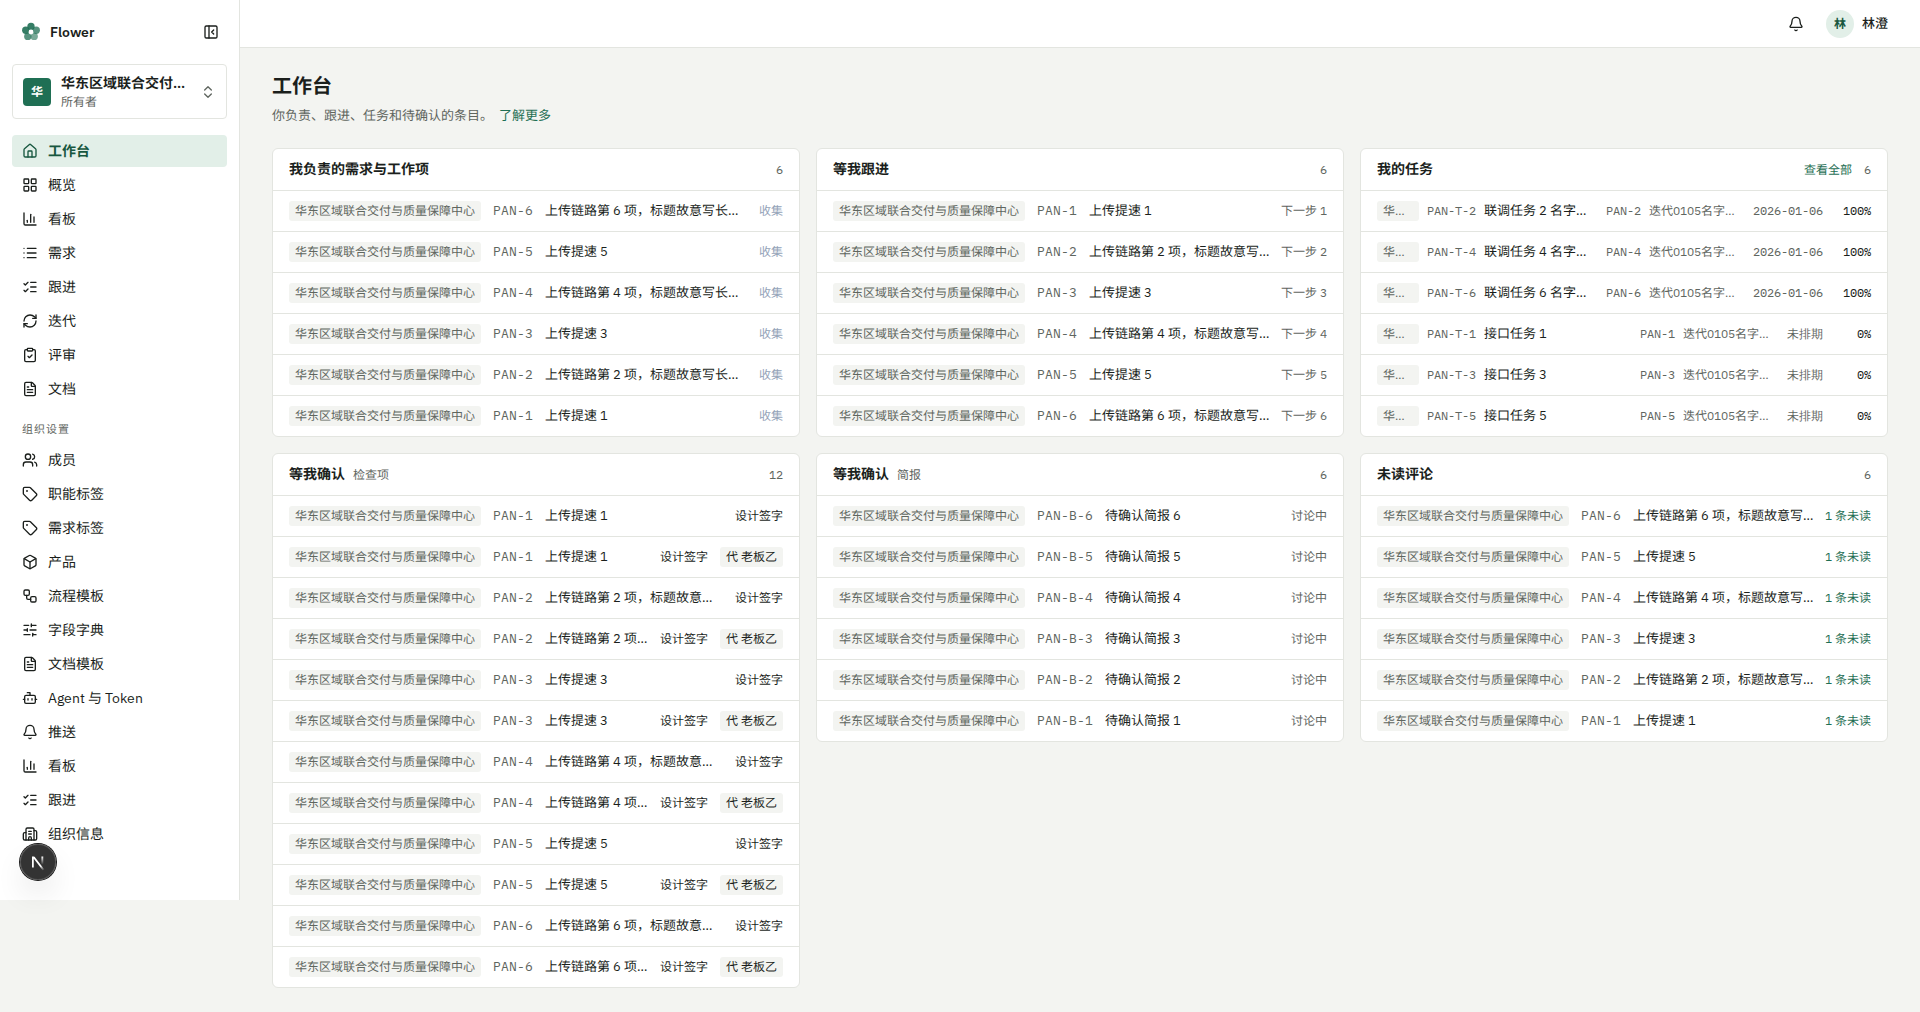
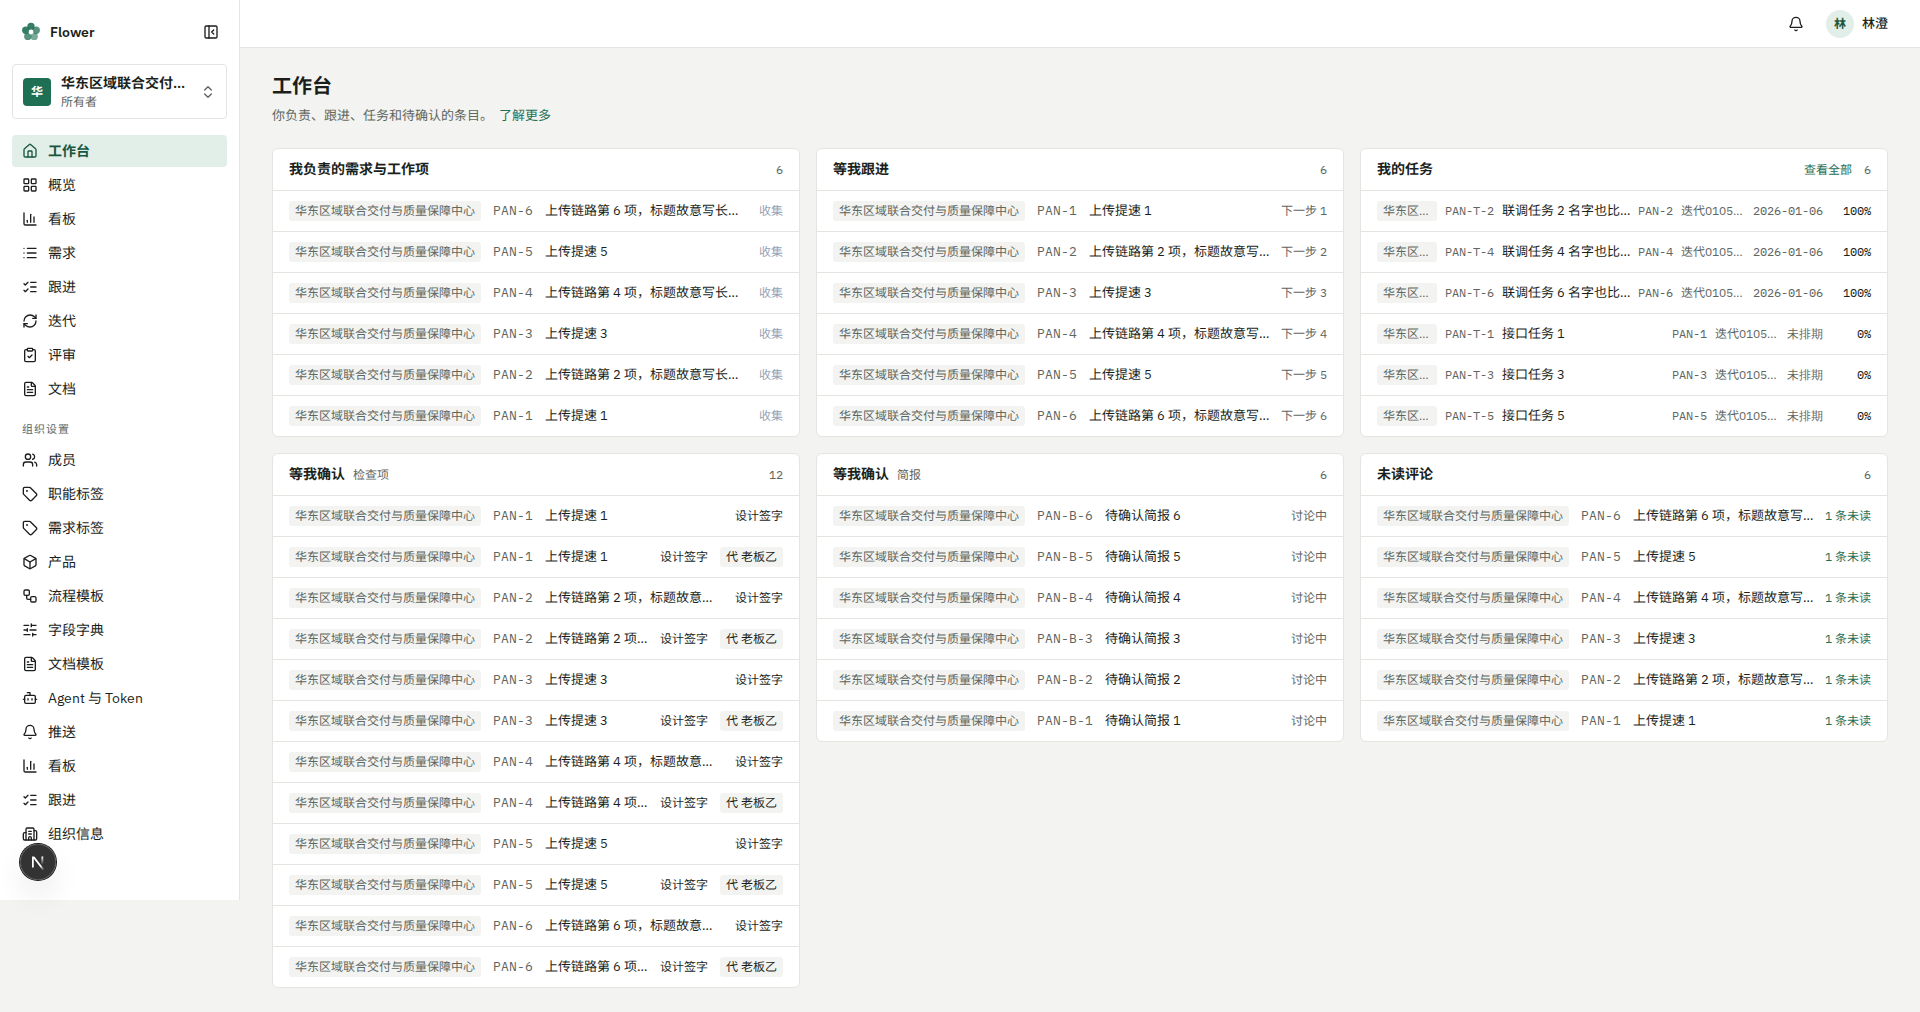
fix(web): cap task iteration at 3xl and count past the ellipsis
3xl iteration names stop at 64px and keep the full name in title.
Long org badges stop at 5em. The task row stays on gap-2 because
max-w-16 alone still left the 1920 multi-org title at 7 letters.
Visible letters subtract the ellipsis when the row overflows, and
a glyph counts only when it ends before that edge. 1919 stays two
columns; 1920 is three. The 120rem breakpoint is unchanged.

diff --git a/apps/web/e2e/dux-e-workbench-density.spec.ts b/apps/web/e2e/dux-e-workbench-density.spec.ts
@@ -31,7 +31,8 @@ type Bot = { post: (url: string, opts: { data: unknown }) => Promise<APIResponse
 
 /**
  * 可见宽是元素边框盒与卡片可视区、裁切父级的交集。
- * 标题字数不含空格；省略号盖住的字形、以及大半落在裁切区外的字形都不算。
+ * 标题字数不含空格。行或标题溢出时，右边界先减去省略号宽度，
+ * 字形必须完全落在这条边界左边，被省略号盖住的不算。
  * 可见宽不能靠标题自己的 min-w 单独过关。
  */
 async function taskRowMetrics(region: Locator): Promise<TaskRowMetric[]> {
@@ -70,8 +71,11 @@ async function taskRowMetrics(region: Locator): Promise<TaskRowMetric[]> {
     const lettersOf = (value: string) => Array.from(value).filter(isLetter).join('');
     const visibleLetters = (el: Element, left: number, right: number) => {
       const style = getComputedStyle(el);
+      const row = el.closest('a');
+      const rowOverflow = !!row && row.scrollWidth > row.clientWidth + 0.5;
+      const selfOverflow = el.scrollWidth > el.clientWidth + 0.5;
       let limit = right;
-      if (style.textOverflow.includes('ellipsis') && el.scrollWidth > el.clientWidth + 0.5) {
+      if ((rowOverflow || selfOverflow) && style.textOverflow.includes('ellipsis')) {
         const canvas = document.createElement('canvas').getContext('2d');
         if (canvas) {
           canvas.font = style.font;
@@ -88,17 +92,14 @@ async function taskRowMetrics(region: Locator): Promise<TaskRowMetric[]> {
         const value = text.textContent ?? '';
         for (let i = 0; i < value.length; i++) {
           const ch = value[i] ?? '';
-          if (!isLetter(ch)) continue;
           range.setStart(text, i);
           range.setEnd(text, i + 1);
+          let visible = false;
           for (const glyph of range.getClientRects()) {
             if (glyph.width <= 0 || glyph.height <= 0) continue;
-            const overlap = Math.min(glyph.right, limit) - Math.max(glyph.left, left);
-            if (overlap >= glyph.width / 2) {
-              shown += ch;
-              break;
-            }
+            if (glyph.right <= limit + 0.5 && glyph.left >= left - 0.5) visible = true;
           }
+          if (visible) shown += ch;
         }
       }
       return shown;
@@ -116,9 +117,10 @@ async function taskRowMetrics(region: Locator): Promise<TaskRowMetric[]> {
       const progressBox = visibleSpan(progress);
       const titleText = title.textContent ?? '';
       const titleShown = visibleLetters(title, titleBox.left, titleBox.right);
+      const titleLettersShown = lettersOf(titleShown);
       return {
         title: titleText,
-        titleChars: Array.from(titleShown).length,
+        titleChars: Array.from(titleLettersShown).length,
         titleLetters: lettersOf(titleText).length,
         titleShown,
         titleWidth: titleBox.width,

diff --git a/apps/web/src/app/(app)/[org]/page.tsx b/apps/web/src/app/(app)/[org]/page.tsx
@@ -12,7 +12,7 @@ import { useWorkbench } from '@/lib/queries';
 import type { Workbench } from '@/lib/types';
 
 const ROW = 'flex h-10 min-w-0 items-center gap-3 overflow-hidden px-4 text-[13px] hover:bg-muted';
-/** 任务行字段比别的区块多。间距收一档，避免 1280 两列和 1920 三列把长标题挤到 8 字以下。 */
+/** 只缩这一行。三列时迭代名收到 64px；长组织名的徽标收到 5em。间距收一档，标题才够 8 个非空格字。 */
 const TASK_ROW = 'flex h-10 min-w-0 items-center gap-2 overflow-hidden px-4 text-[13px] hover:bg-muted';
 const WORKBENCH_ABOUT = '汇总你在所有组织里负责的需求与工作项、等你跟进的条目、指派给你的任务、等你确认的简报、等你确认的检查项和未读评论。';
 
@@ -79,7 +79,6 @@ function Section({
   );
 }
 
-/** 三列时徽标收到 3.5em。4em 时标题只剩 108px，第 8 个字的中线还差约 0.5px，被省略号挡住。 */
 function OrgBadge({ show, name, compactAt3xl = false }: { show: boolean; name: string; compactAt3xl?: boolean }) {
   if (!show) return null;
   return (
@@ -87,7 +86,7 @@ function OrgBadge({ show, name, compactAt3xl = false }: { show: boolean; name: s
       title={compactAt3xl ? name : undefined}
       className={
         compactAt3xl
-          ? 'shrink-0 rounded-sm bg-muted px-1.5 py-0.5 text-xs text-muted-foreground 3xl:min-w-0 3xl:max-w-[3.5em] 3xl:shrink 3xl:truncate'
+          ? 'shrink-0 rounded-sm bg-muted px-1.5 py-0.5 text-xs text-muted-foreground 3xl:min-w-0 3xl:max-w-[5em] 3xl:shrink 3xl:truncate'
           : 'shrink-0 rounded-sm bg-muted px-1.5 py-0.5 text-xs text-muted-foreground'
       }
     >
@@ -182,7 +181,7 @@ function Sections({ org, data }: { org: string; data: Workbench }) {
               <span className="min-w-[64px] flex-1 truncate">{t.title}</span>
               {t.requirement && <span className="shrink-0 font-mono text-xs text-muted-foreground">{t.requirement.displayKey}</span>}
               {t.iteration && (
-                <span title={t.iteration.name} className="min-w-0 max-w-24 truncate text-xs text-muted-foreground">
+                <span title={t.iteration.name} className="min-w-0 max-w-24 truncate text-xs text-muted-foreground 3xl:max-w-16">
                   {t.iteration.name}
                 </span>
               )}

diff --git a/docs/agent-log.md b/docs/agent-log.md
@@ -20,6 +20,12 @@
 
 ## 记录
 
+### 2026-10-23 · 云端 · FIX-5 修订：迭代名三列限宽，字数扣掉省略号
+- 分支 / PR：`fix/dux-e-workbench-3col-readable`（草稿 #40，不要 merge，不要标 ready）
+- 做了什么：已处理同日 FIX-5 修订。三列门槛仍是 `3xl`（`120rem`），没有改。只动「我的任务」行：迭代名加 `3xl:max-w-16`（64px），`title` 仍是全名。只加这一条时，多组织 1920 的长标题是「联调任务 2 名字」，7 个非空格字、104px，还不到 8。于是任务行保持 `gap-2`，三列时组织徽标再限到 `5em` 并截断，`title` 为全名。编号、迭代、计划日都还在，其他区块的行没改。可见字：行或标题溢出时，右边界先减去省略号宽度，字形必须完全落在这条边界左边。空格不算。`layout.spec` 增加 1919 两列、1920 三列。1920 的两张满负荷图重截。不碰生产。
+- 怎么验证的：`pnpm --filter @flower/web lint` 0 警告。`pnpm typecheck` 通过。Playwright 24 条通过，含 1919 两列 / 1920 三列。扣掉省略号之后的非空格字：单组织 1280 长标题「联调任务 2 名字也」8 字 / 116px，1440 全文 11 字 / 196px，1536 全文 11 字 / 244px，1920 全文 11 字 / 196px。多组织短名 1536 全文 11 字 / 176px；1920「联调任务 2 名字也比」9 字 / 128px。多组织长名 1920 同样 9 字 / 128px。短标题「接口任务 N」全文 5 字都在。迭代在 1920 为 64px，计划日和进度完整。
+- 留给对方：不要 merge，不要标 ready。合仓不等于部署，不碰生产。同日上一条 FIX-5 里「徽标 3.5em、1920 多组织 8 字 / 114px」已被这条取代。回滚：任务行改回共用 `ROW`，迭代名去掉 `3xl:max-w-16`，徽标去掉 `compactAt3xl`。
+
 ### 2026-10-23 · 云端 · 三列多组织时任务标题仍不少于 8 个字（FIX-5）
 - 分支 / PR：`fix/dux-e-workbench-3col-readable`（草稿 #40，不要 merge，不要标 ready）
 - 做了什么：已处理同日 FIX-5。只改工作台「我的任务」行。任务行间距从 `gap-3` 收到 `gap-2`，其他区块仍用原来的 `ROW`。3xl 时这一行的组织徽标 `max-w-[3.5em]`，截断，`title` 为组织全名。4em 时 1920 长标题可见宽 108px，第 8 个非空格字的中线还差约 0.5px，被省略号盖住，所以收到 3.5em。编号、迭代、计划日都还在。没有改共享组件、后端、计数接口，也没有改三列断点。断言改为可见非空格字不少于 `min(8, 全文非空格字数)`；空格不算，省略号盖住的字不算；104px 不能单独过关。补了单组织、侧栏展开、1920，以及多组织长名称 1920。新截图 `docs/dux-e/workbench-full-1920-multiorg.png`。任务行间距变了，原四张满负荷图和 `workbench-partial-1280.png` 重截。不碰生产。
